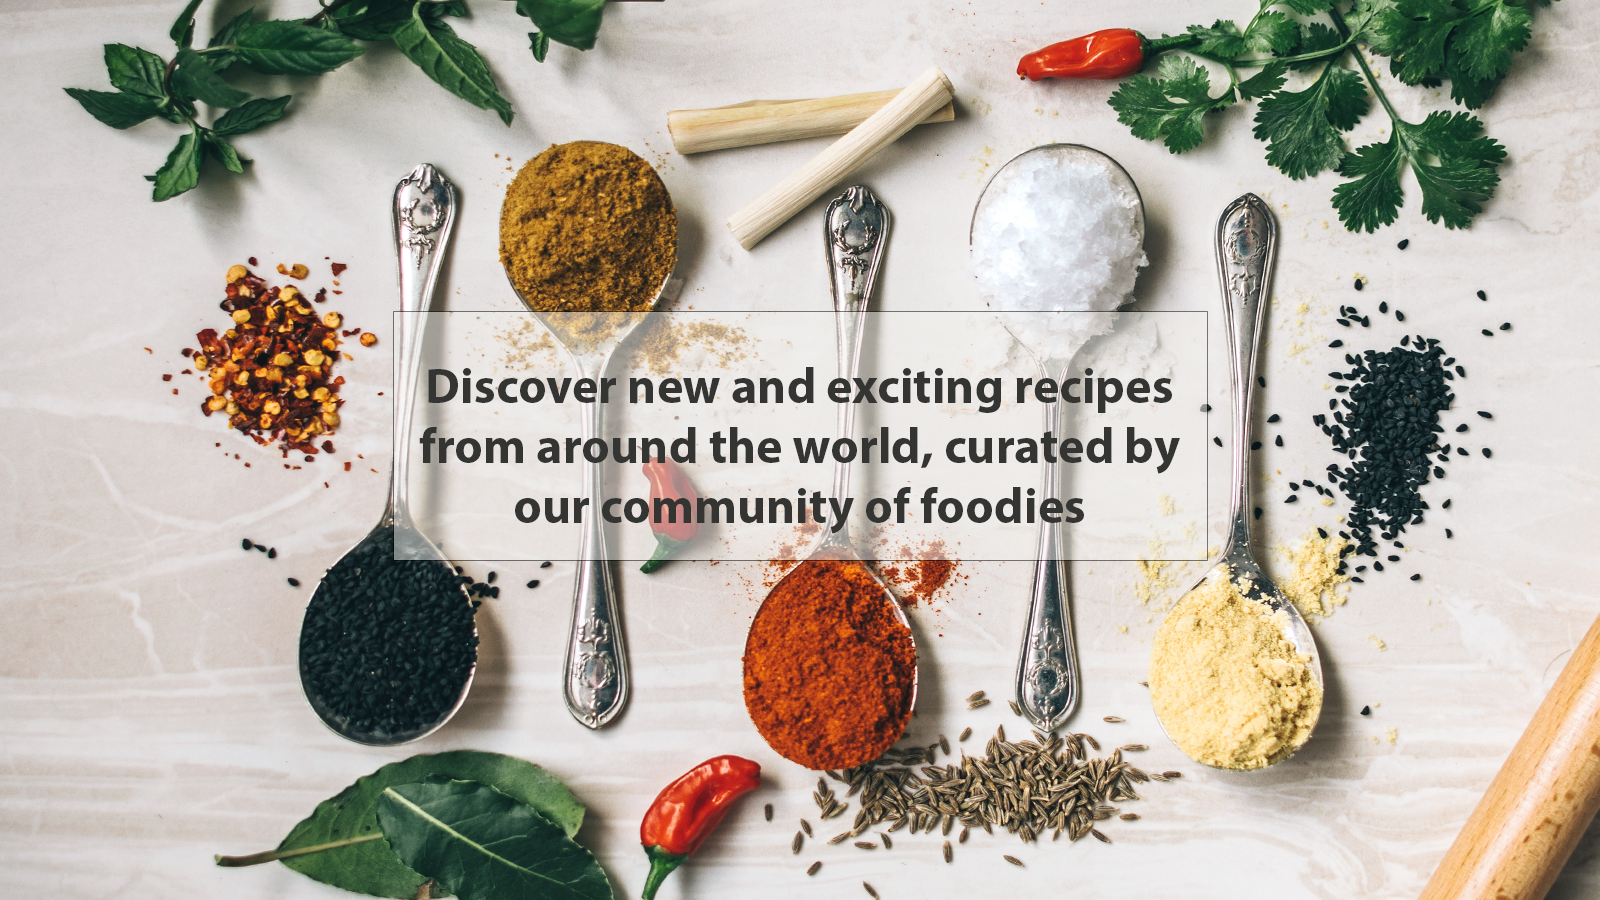
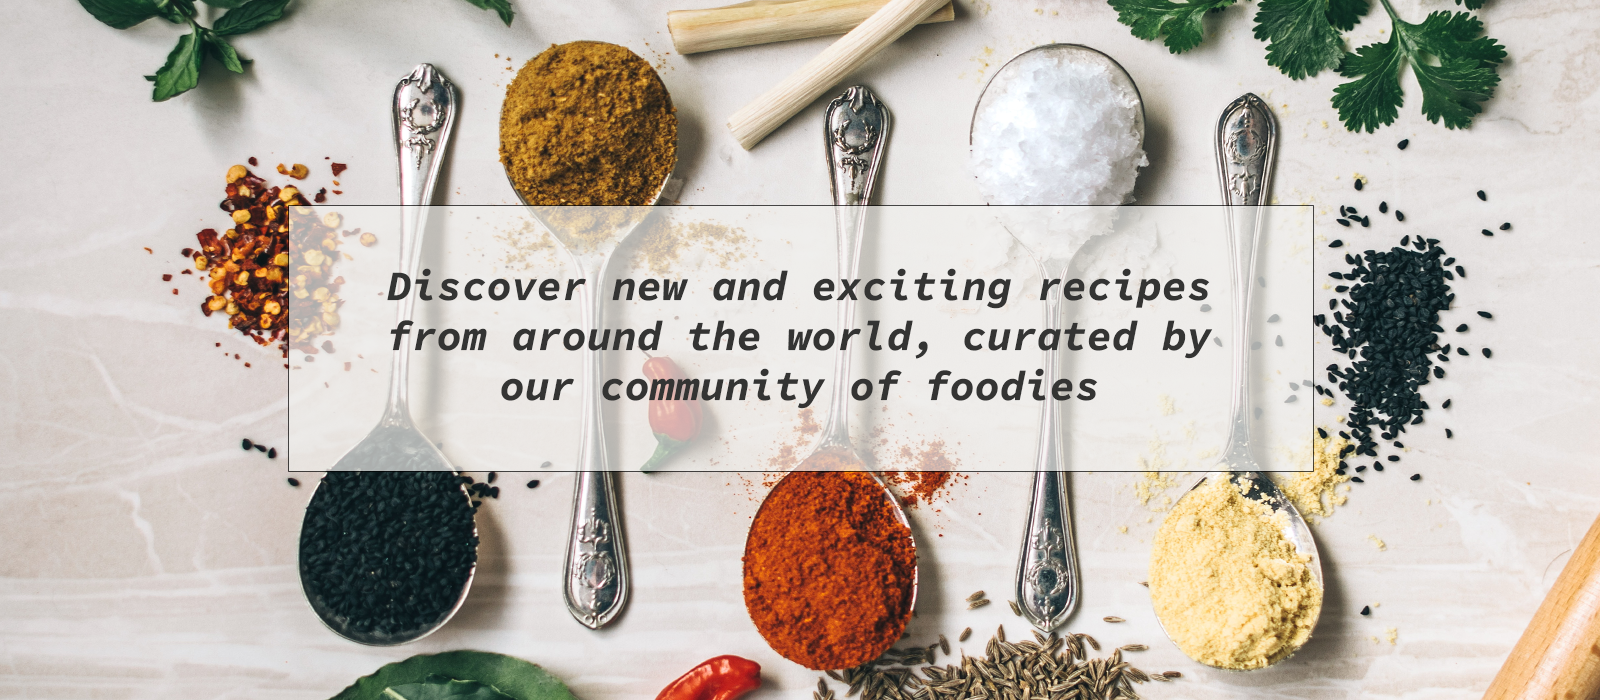
updated hero img size and text style overlay

diff --git a/src/components/DetailsRecipePage/DetailsRecipePage.jsx b/src/components/DetailsRecipePage/DetailsRecipePage.jsx
@@ -1,0 +1,7 @@
+import React from 'react'
+
+export default function DetailsRecipePage() {
+  return (
+    <div>DetailsRecipePage</div>
+  )
+}
